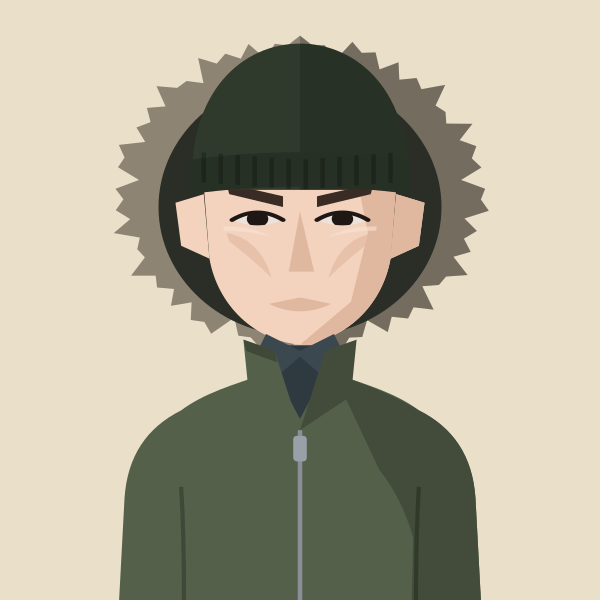
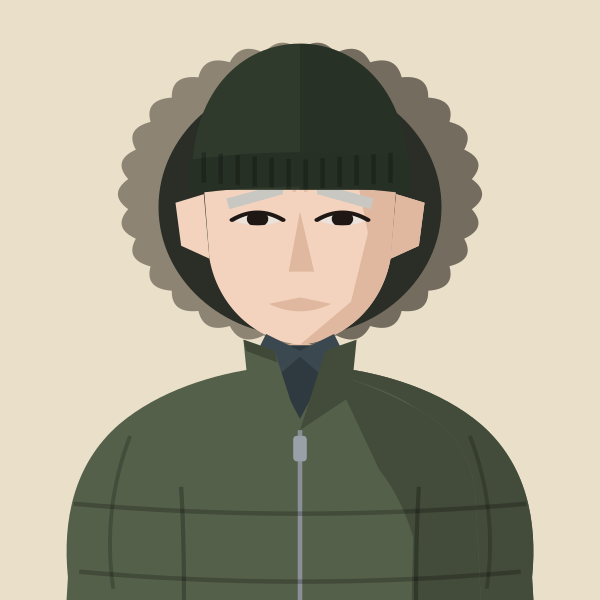
Charlie Dickinson: kindly silver brows, rounder fur ruff, puffy parka
Claude-Session: https://claude.ai/code/session_01MgmDWhFqnSSnP4iBLKXUZC

diff --git a/files/index.html b/files/index.html
@@ -577,7 +577,7 @@ add('kitty-shepherd-cross','BEL','Kitty Shepherd-Cross','Kitty Shepherd Cross');
 return m;})();
 // Athlete header figure: superstar portrait if we have one, else a grey runner in the club vest, else the plain vest icon
 // Changes whenever any portrait changes (set by tools/build_og.py), so browsers fetch fresh images instead of old cached ones
-const PORTRAIT_V='eb5442cf';
+const PORTRAIT_V='437b299b';
 const AthletePortrait=({name,club,w,fill,onClick})=>{const[failed,setFailed]=useState(false);const pk=PORTRAITS[normalizeNameForCompare(name).replace(/\s*\([^)]*\)$/,'')];const file=pk&&pk.club===club?pk.file:null;const src=file?`/portraits/athletes/${file}.svg?v=${PORTRAIT_V}`:PORTRAIT_CLUBS.has(club)?`/portraits/clubs/${club.replace(/\//g,'').replace(/&/g,'and')}.svg?v=${PORTRAIT_V}`:null;if(!src||failed)return<div onClick={onClick} className={onClick?'cursor-pointer':''}><ClubShield club={club} size={w}/></div>;const h=Math.round(w*148/126),ih=Math.round(w*1.4);if(fill)return<div onClick={onClick} className="cursor-pointer" style={{alignSelf:'stretch',minHeight:h,aspectRatio:'126 / 148',flexShrink:0,position:'relative',borderRadius:4,overflow:'hidden'}}><img src={src} alt={file?`Portrait of ${name.replace(/\s*\([^)]*\)$/,'')}`:`Runner in ${CLUBS[club]?.name||club} vest`} style={{position:'absolute',top:0,left:0,display:'block',width:'100%',height:'auto'}} onError={()=>setFailed(true)}/></div>;return<div style={{width:w,height:h,borderRadius:4,overflow:'hidden',flexShrink:0}}><img src={src} alt={file?`Portrait of ${name.replace(/\s*\([^)]*\)$/,'')}`:`Runner in ${CLUBS[club]?.name||club} vest`} width={w} height={ih} style={{display:'block',width:w,height:ih}} onError={()=>setFailed(true)}/></div>;};
 const getClubVestSvg=(club)=>{
   const p="M3 0 L6 0 Q7 4 10 5 Q13 4 14 0 L17 0 L17 20 L3 20 Z";

diff --git a/tools/gen_portraits.py b/tools/gen_portraits.py
@@ -137,7 +137,7 @@ FACIAL = {
 def _eyewhite(sk):  # an off-white, tinted towards the skin so it never glares
     return '#' + ''.join(f'{round(int(sk[i:i+2],16)*0.3+0xE8*0.7):02X}' for i in (1,3,5))
 
-def figure(kit, mode="custom", skin=1, hair="crop", hair_colour="dark brown", facial=None, cap=None, shades=False, tattoos=False, beanie=None, mud=False, glasses=False, roots=None, stars=0, gaunt=False, greying=False, headband=None, cap_back=False, facial_colour=None, tag="f", shades_col=None, shades_up=False, scrunchie=None, crown=False, jacket=None, medal=None, temples=False, cleft=False, brow_colour=None, jacket_marks=None, define=None, frown=False, hood=None):
+def figure(kit, mode="custom", skin=1, hair="crop", hair_colour="dark brown", facial=None, cap=None, shades=False, tattoos=False, beanie=None, mud=False, glasses=False, roots=None, stars=0, gaunt=False, greying=False, headband=None, cap_back=False, facial_colour=None, tag="f", shades_col=None, shades_up=False, scrunchie=None, crown=False, jacket=None, medal=None, temples=False, cleft=False, brow_colour=None, jacket_marks=None, define=None, frown=False, hood=None, puffy=False):
     primary, extras, ground = KITS[kit]
     line = mode == "outline"
     if mode == "custom": sk, dk, lt = SKIN[skin]
@@ -177,13 +177,14 @@ def figure(kit, mode="custom", skin=1, hair="crop", hair_colour="dark brown", fa
     # head
     if hood:  # parka hood with a fur ruff framing the face
         fur, lining = hood
-        pts = []
-        for i in range(90):
-            a = i * 2 * math.pi / 90
-            r = (67, 61, 64, 59, 66, 62)[i % 6] + 2 * math.sin(i * 1.7)
-            pts.append(f"{100 + r * math.sin(a):.1f},{100 - r * 1.1 * math.cos(a):.1f}")
-        hg_pre = (f'<polygon points="{" ".join(pts)}" fill="{fur}"/>'
-                  f'<polygon points="{" ".join(pts)}" fill="#000" opacity=".18" clip-path="url(#r{tag})"/>'
+        N = 30; d = []
+        for i in range(N + 1):
+            a0 = i * 2 * math.pi / N; am = (i - 0.5) * 2 * math.pi / N
+            P = lambda r, a: f"{100 + r * math.sin(a):.1f},{100 - r * 1.1 * math.cos(a):.1f}"
+            d.append(("M" if i == 0 else f"Q{P(68, am)} ") + P(61, a0))
+        fur_path = " ".join(d) + " Z"
+        hg_pre = (f'<path d="{fur_path}" fill="{fur}"/>'
+                  f'<path d="{fur_path}" fill="#000" opacity=".18" clip-path="url(#r{tag})"/>'
                   f'<ellipse cx="100" cy="106" rx="50" ry="60" fill="{lining}"/>')
     else:
         hg_pre = ''
@@ -198,7 +199,7 @@ def figure(kit, mode="custom", skin=1, hair="crop", hair_colour="dark brown", fa
         brow = hc if hair_colour not in ("grey", "blonde", "ginger", "bleached") else {"grey": "#8C8A86", "blonde": "#9A7A45", "ginger": "#A65A2A", "bleached": "#6B4A2E"}[hair_colour]
         if hair in ("buzz","buzzrecede") or hair is None: brow = "#3A2C24" if skin <= 3 else "#1E1714"
         if brow_colour: brow = brow_colour
-        hg += [(f'<g fill="{brow}"><polygon points="74,95 94,101 94,106 75,100"/><polygon points="106,101 126,95 125,100 106,106"/></g>' if frown else f'<g fill="{brow}"><polygon points="74,100 94,97 95,102 75,105"/><polygon points="105,97 126,100 125,105 105,102"/></g>'),
+        hg += [(f'<g fill="{brow}"><polygon points="74,102 94,95 94,100 75,107"/><polygon points="106,95 126,102 125,107 106,100"/></g><path d="M98,92 L98,99 M102,92 L102,99" stroke="{dk}" stroke-width="1.2" opacity=".7"/>' if frown == "worried" else f'<g fill="{brow}"><polygon points="74,95 94,101 94,106 75,100"/><polygon points="106,101 126,95 125,100 106,106"/></g>' if frown else f'<g fill="{brow}"><polygon points="74,100 94,97 95,102 75,105"/><polygon points="105,97 126,100 125,105 105,102"/></g>'),
                (f'<g fill="{_eyewhite(sk)}"><path d="{EYE_L}"/><path d="{EYE_R}"/></g>' if define and 'eyes' in define else '') +
                f'<g clip-path="url(#e{tag})" fill="{ink}"><circle cx="85" cy="111.5" r="3.8"/><circle cx="115" cy="111.5" r="3.8"/></g>'
                f'<g fill="none" stroke="{ink}" stroke-width="1.8" stroke-linecap="round"><path d="M76,112 Q85,105 94,112"/><path d="M106,112 Q115,105 124,112"/></g>',
@@ -277,6 +278,9 @@ def figure(kit, mode="custom", skin=1, hair="crop", hair_colour="dark brown", fa
         jc, jd, crest = jacket[:3]
         sh1, sh2 = jacket[3] if len(jacket) > 3 else ('#7A1E2A', '#8E2633')
         body = "M88,192 C76,196 66,199 58,205 C46,211 39,221 38,236 L33,330 L167,330 L162,236 C161,221 154,211 142,205 C134,199 124,196 112,192 Z"
+        if puffy:  # wider, rounder down parka behind the standard top
+            o.append(f'<path d="M86,190 C70,192 50,198 36,210 C20,224 16,244 18,264 L14,330 L186,330 L182,264 C184,244 180,224 164,210 C150,198 130,192 114,190 Z" fill="{jc}"/>'
+                     f'<path d="M114,190 C130,192 150,198 164,210 C180,224 184,244 182,264 L186,330 L150,330 L152,250 Q146,232 128,222 Z" fill="{jd}"/>')
         o.append(f'<path d="{body}" fill="{jc}"/>'
                  f'<path d="M112,192 C124,196 134,200 142,205 C154,211 161,221 162,236 L167,330 L138,330 L140,250 Q136,236 128,226 Z" fill="{jd}"/>'
                  f'<path d="M58,232 Q60,262 58,330 M142,232 Q140,262 142,330" stroke="#000" stroke-opacity=".25" stroke-width="1.5" fill="none"/>'
@@ -287,6 +291,9 @@ def figure(kit, mode="custom", skin=1, hair="crop", hair_colour="dark brown", fa
                  f'<path d="M100,212 L100,330" stroke="#8A8F98" stroke-width="1.6"/><rect x="97.6" y="214" width="4.8" height="9" rx="1.2" fill="#9AA0A8"/>'
                  + (f'<g transform="translate(76,236)"><circle r="10" fill="{crest[0]}"/><circle r="10" fill="none" stroke="{crest[1]}" stroke-width="1.6"/><circle r="6.2" fill="none" stroke="{crest[1]}" stroke-width=".9"/><path d="M-4,3 L-4,-2 L-2,-4 L0,-2 L2,-4 L4,-2 L4,3 Z" fill="{crest[1]}"/></g>' if crest else '')
                  )
+    if jacket and puffy:  # quilted baffles
+        o.append(''.join(f'<path d="M{20+k*2},{y} Q100,{y+7} {180-k*2},{y}" stroke="#000" stroke-opacity=".22" stroke-width="1.6" fill="none"/>' for k, y in ((0, 238), (1, 262), (1, 286), (1, 310)))
+                 + '<path d="M40,214 Q30,240 34,268 M160,214 Q170,240 166,268" stroke="#000" stroke-opacity=".2" stroke-width="1.4" fill="none"/>')
     if jacket and jacket_marks:  # one-off extras on a coach's jacket (initials, club saltire)
         if jacket_marks.get("initials"):
             o.append(f'<text x="76" y="244" text-anchor="middle" font-family="Helvetica, Arial, sans-serif" font-weight="bold" font-size="12" fill="#F2F2F0">{jacket_marks["initials"]}</text>')
@@ -518,4 +525,4 @@ save("alex-lee", figure("HHH", skin=1, hair="tousled", hair_colour="#6B4A2E"))
 save("benedict-whitby", figure("HHH", skin=2, hair="croppeak", hair_colour="#5E534A", temples=True))
 save("falilou-kebe", figure("BEL", skin=6, hair="buzz", hair_colour="black"))
 save("jack-dickson", figure("H/W", skin=1, hair="tousled", hair_colour="#9A7650"))
-save("charlie-dickinson", figure("BEL", skin=1, hair=None, beanie="#2F3A2C", frown=True, gaunt=True, hood=("#8E8474", "#2A2E26"), jacket=("#55604A", "#434C3A", None, ("#2F3A40", "#3B4850"))))
+save("charlie-dickinson", figure("BEL", skin=1, hair=None, beanie="#2F3A2C", frown="worried", brow_colour="#C9C7C2", hood=("#8E8474", "#2A2E26"), puffy=True, jacket=("#55604A", "#434C3A", None, ("#2F3A40", "#3B4850"))))
